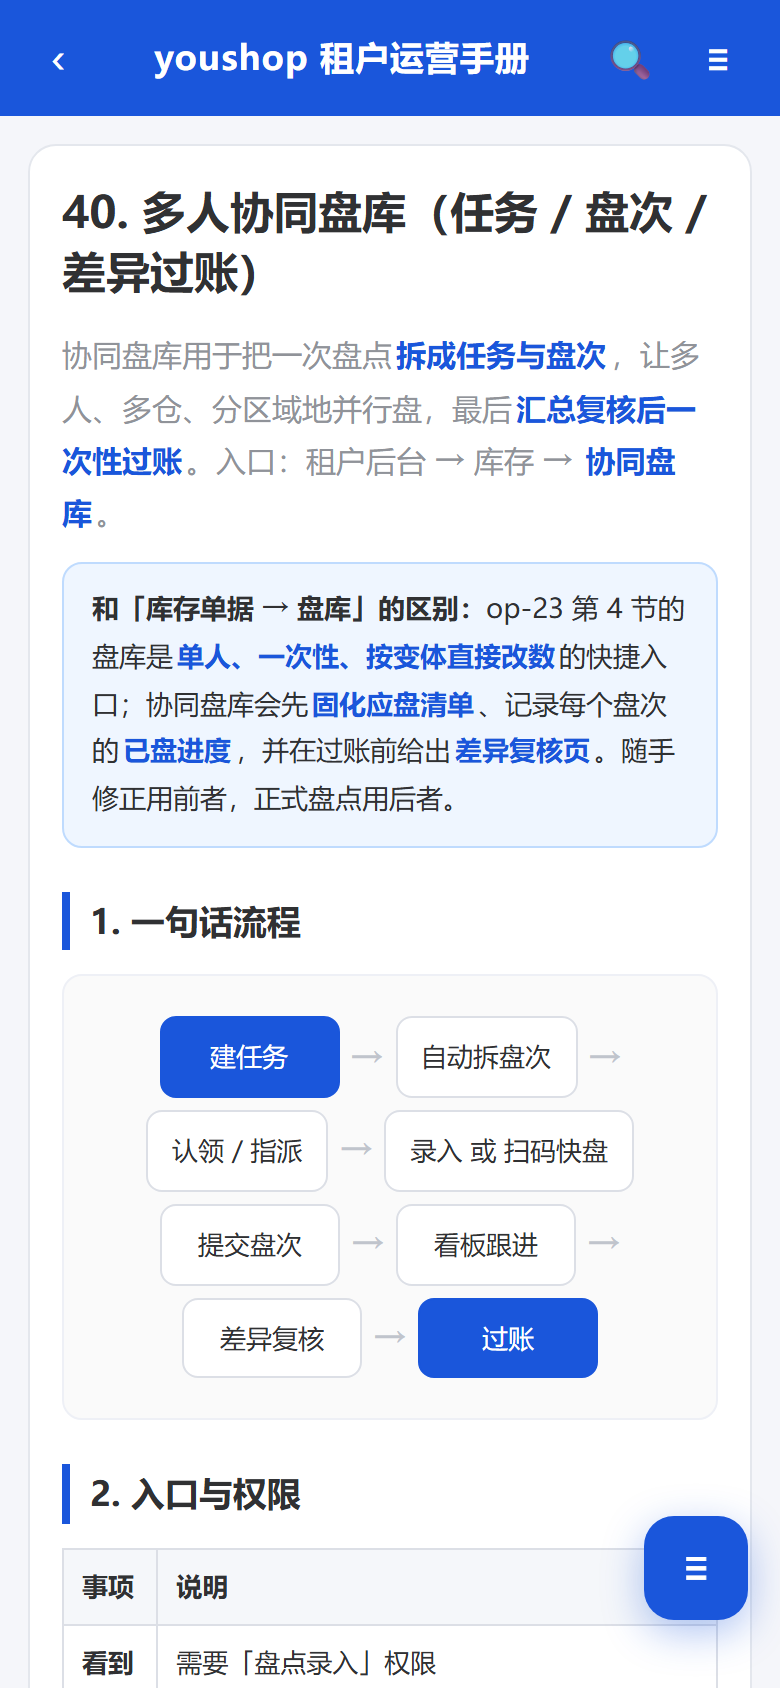
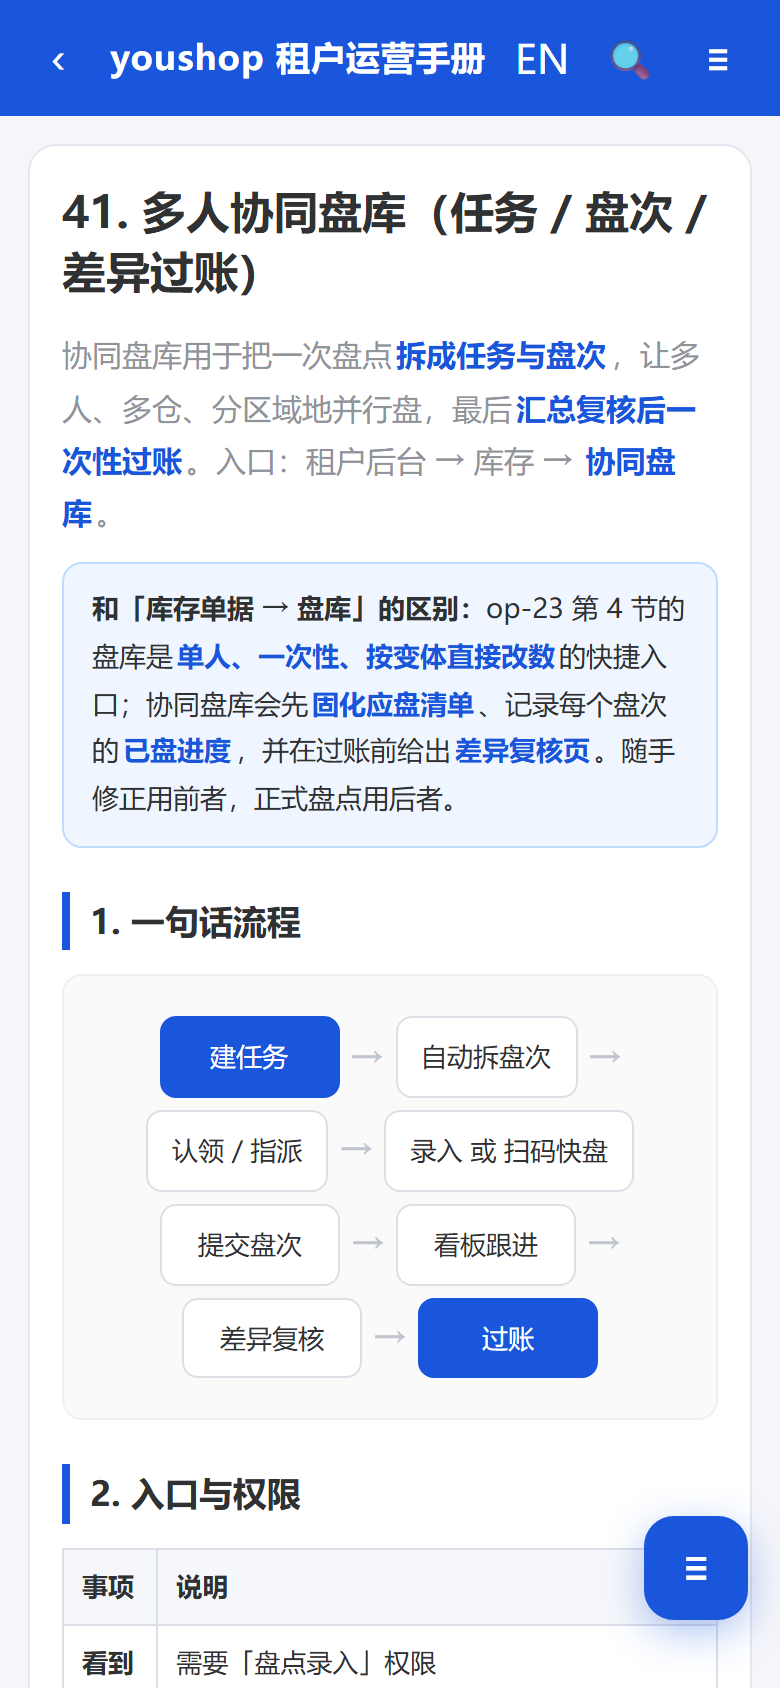
chore(web-admin): 首页版式下拉仅 vshop 端显示 + 手册截图更新（上次会话遗留收尾）

Changed region(s): [[0.1231, 0.0, 0.7385, 0.0616], [0.1231, 0.0924, 0.1538, 0.154]]

diff --git a/web-admin/src/pages/platform/templates/index.vue b/web-admin/src/pages/platform/templates/index.vue
@@ -107,7 +107,8 @@
               <switch :checked="pagesObj.product?.blocks?.[b.key]?.show !== false" color="#4f8cff" @change="togglePageBlock(b.key, ($event as any).detail.value)" />
             </view>
           </view>
-          <view class="field" v-if="curPage === 'home'">
+          <!-- 首页版式下拉仅 vshop 端显示：layout 仅被 vshop C 端消费（nshop 首页为 usemall 骨架，不读该字段） -->
+          <view class="field" v-if="curPage === 'home' && app === 'vshop'">
             <text class="label">{{ $t('decorateTheme.homeLayoutLabel') }}</text>
             <view class="chips">
               <text
